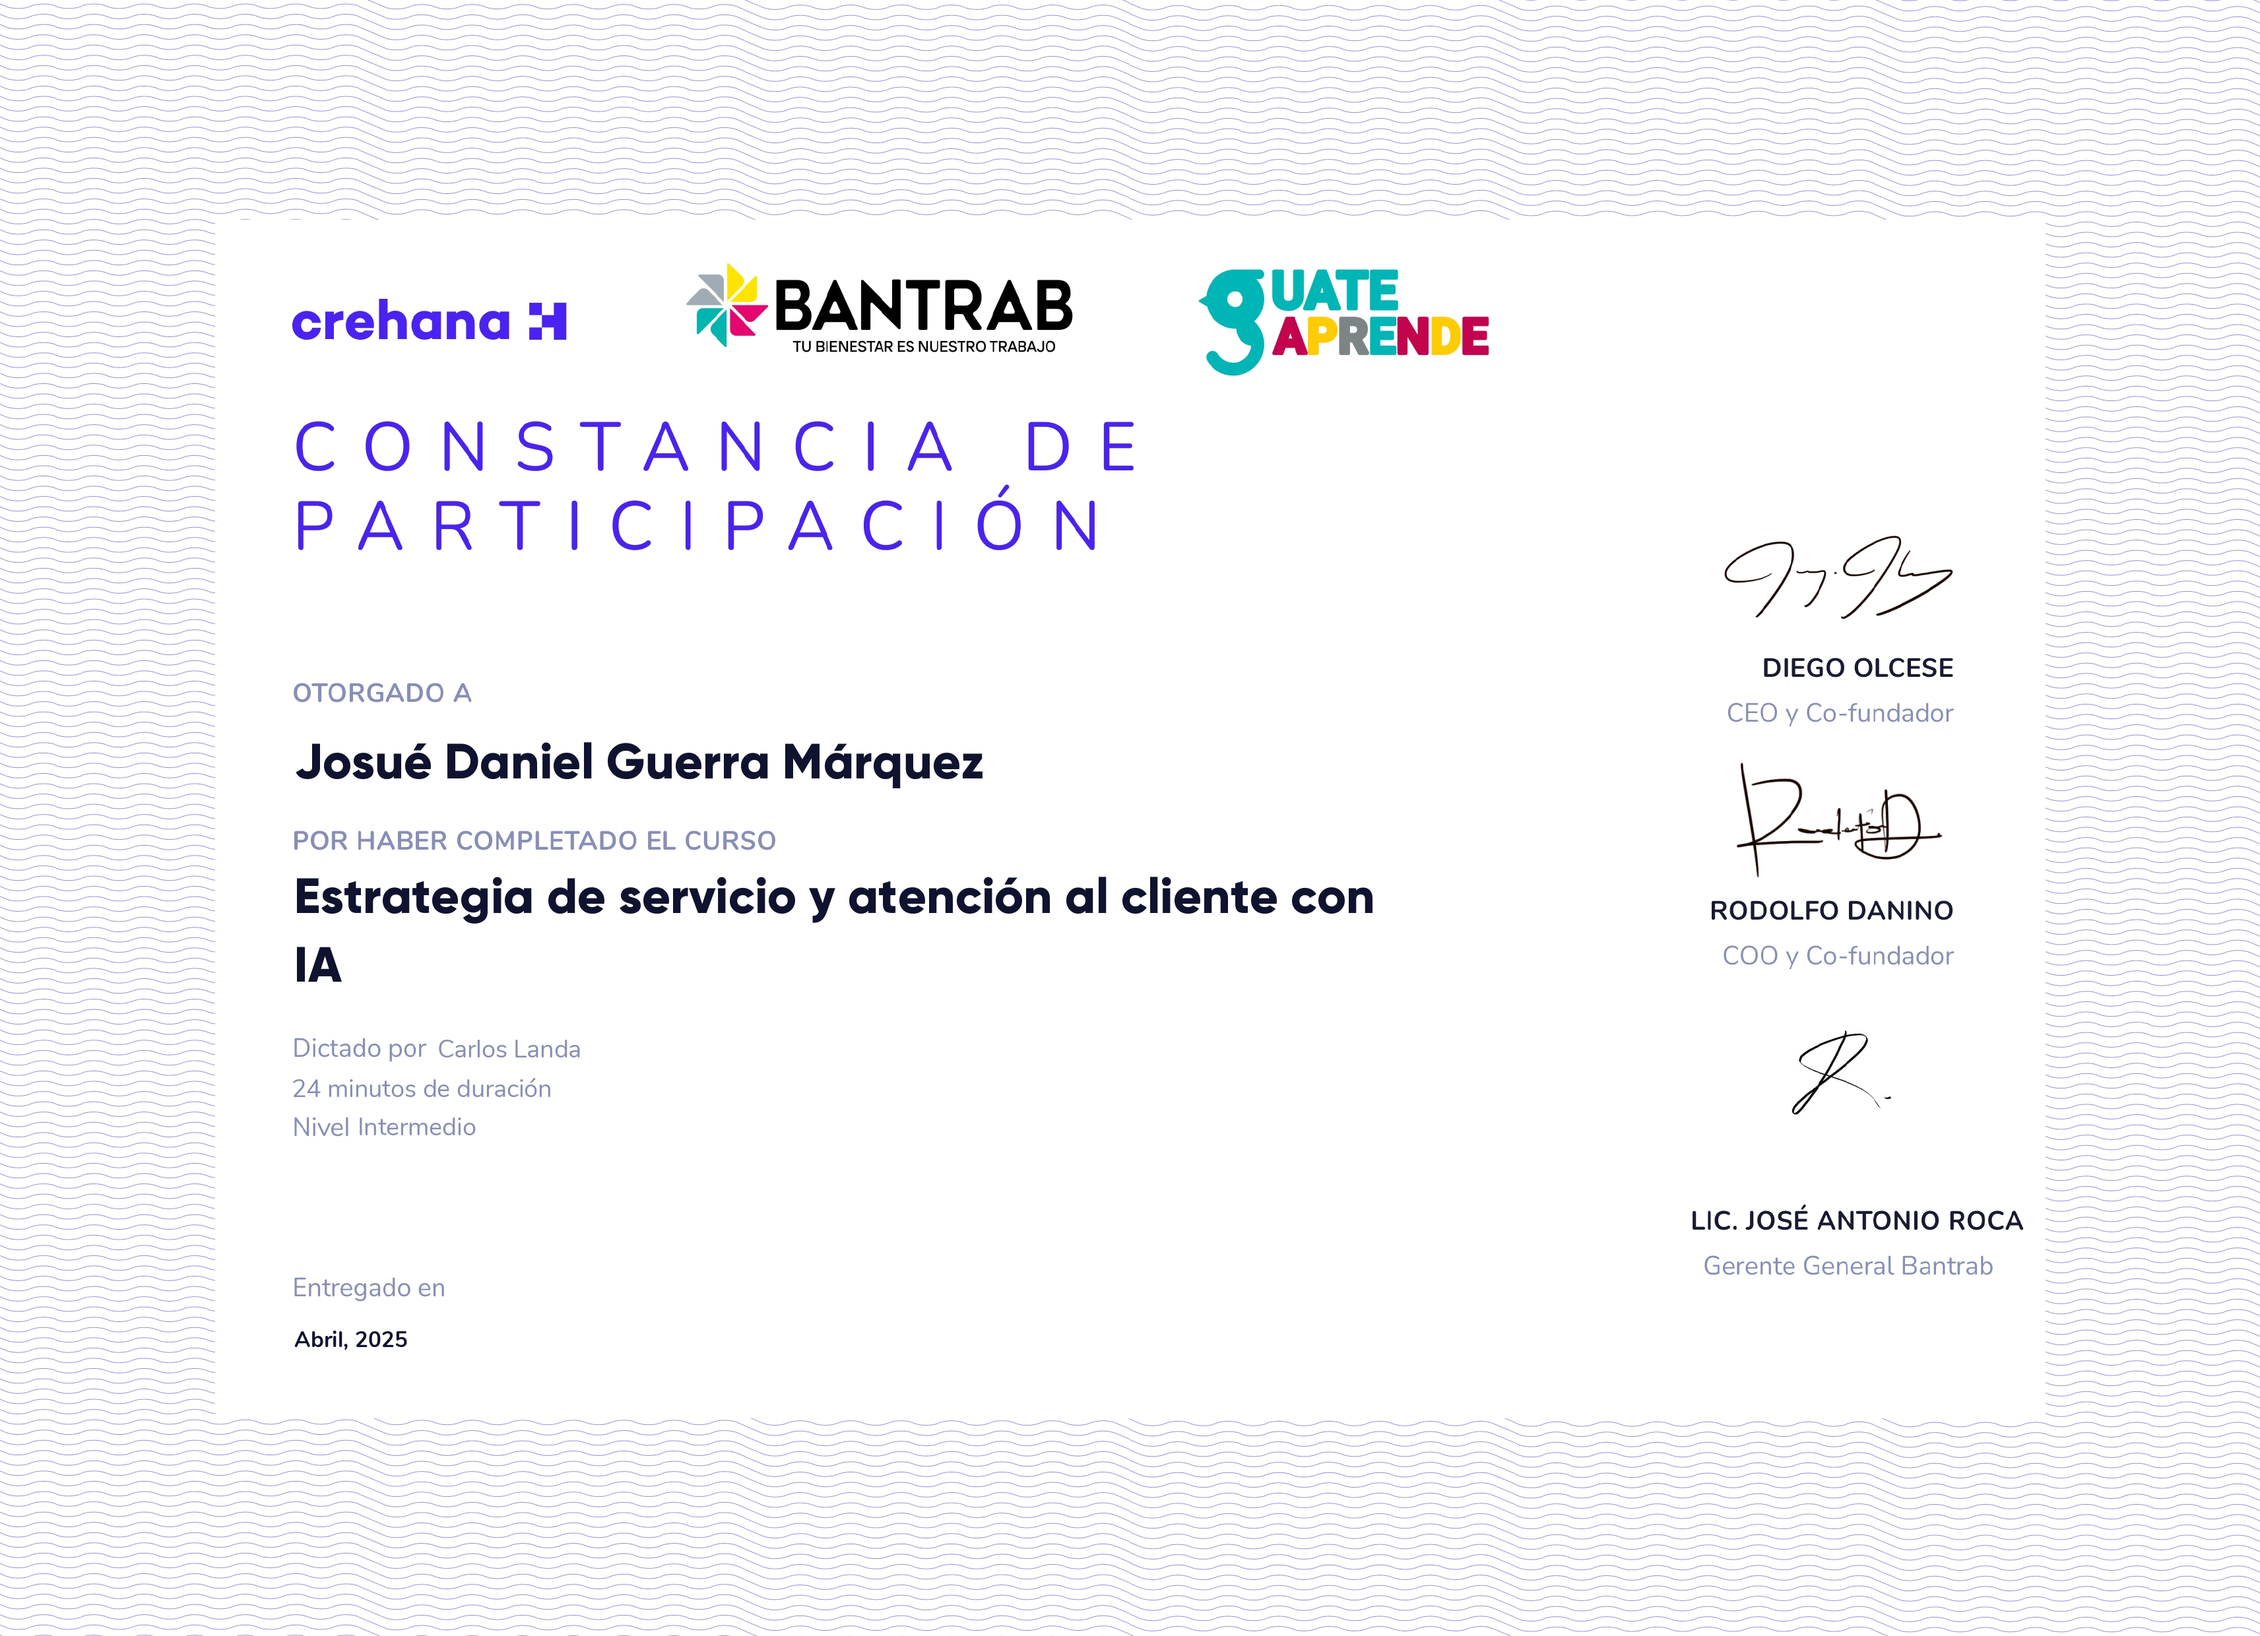
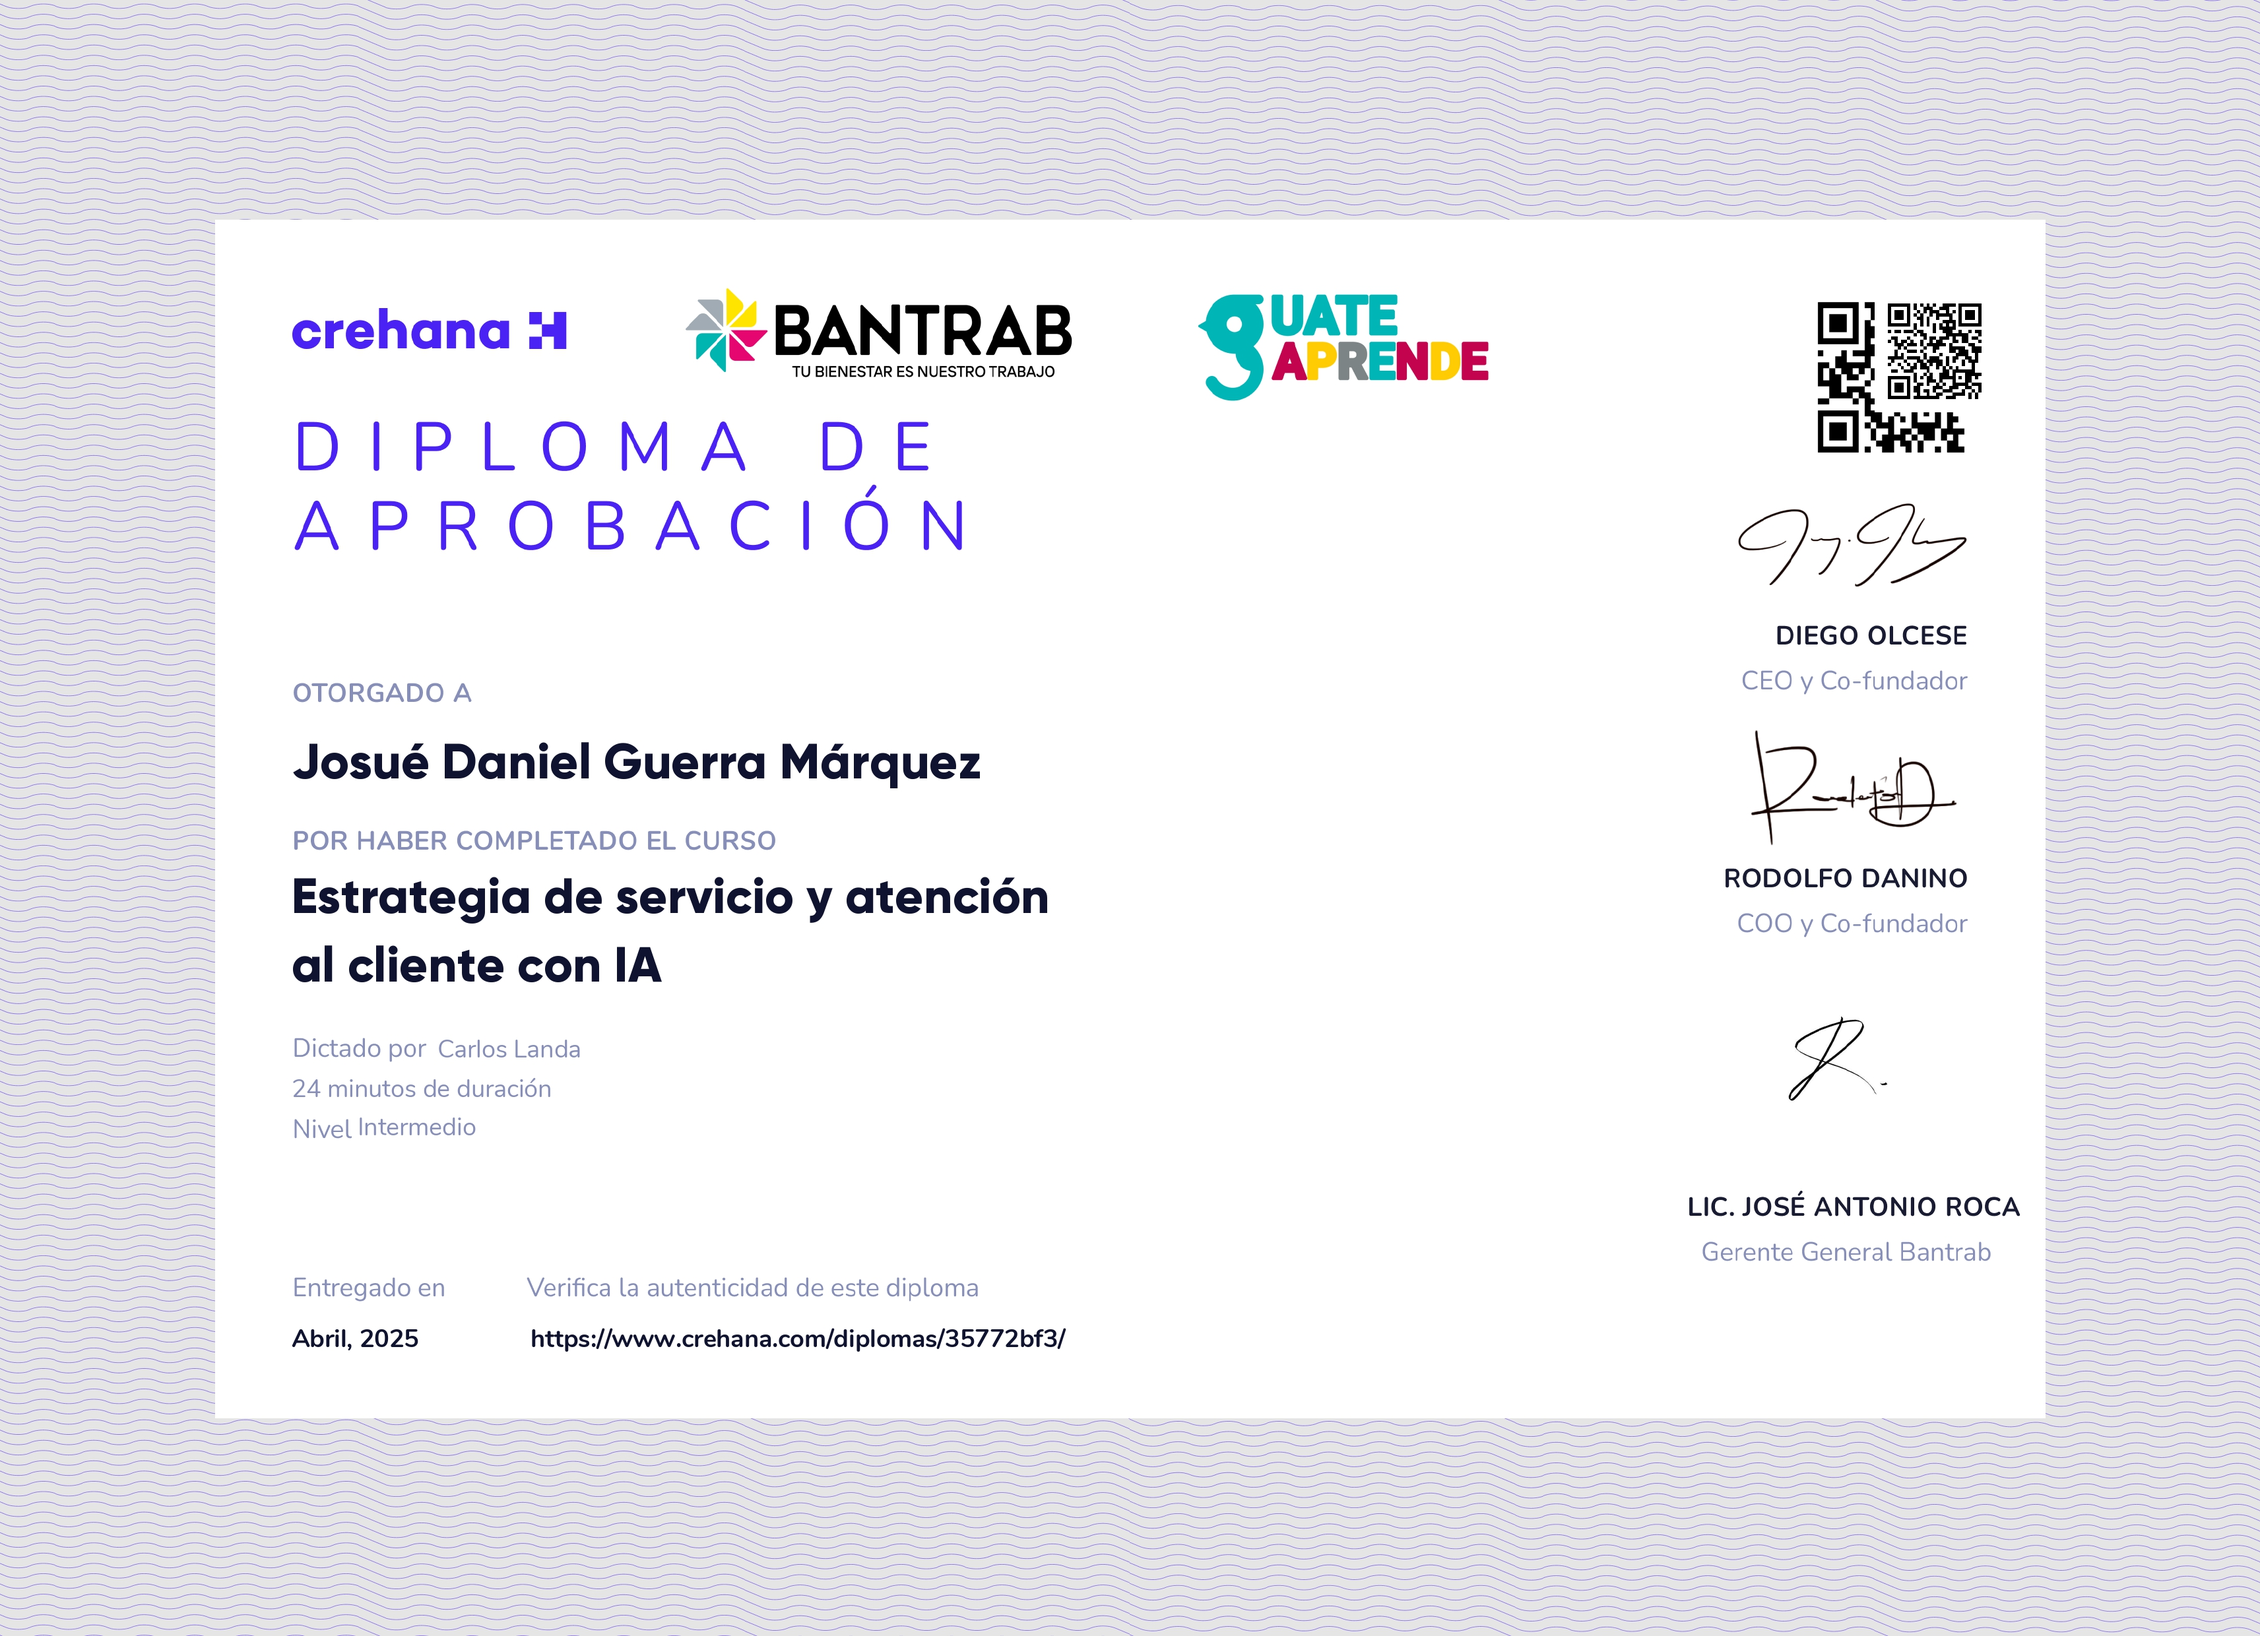
gdf

diff --git a/src/components/Formularios/ShowUsuario.js b/src/components/Formularios/ShowUsuario.js
@@ -10,6 +10,7 @@ import {
   faCode, 
   faCloudUploadAlt,
   faBrain,
+  faHeadset,
   faProjectDiagram,
   faTimes
 } from '@fortawesome/free-solid-svg-icons';
@@ -74,7 +75,8 @@ const ShowUsuario = () => {
     { id: 'data', name: 'Datos & IA', icon: faDatabase },
     { id: 'development', name: 'Desarrollo', icon: faCode },
     { id: 'cloud', name: 'Cloud', icon: faCloudUploadAlt },
-    { id: 'methodology', name: 'Metodologías', icon: faProjectDiagram }
+    { id: 'methodology', name: 'Metodologías', icon: faProjectDiagram },
+    { id: 'customer', name: 'Atención al Cliente', icon: faHeadset }
   ];
 
   // Certificaciones organizadas por categorías
@@ -269,6 +271,14 @@ const ShowUsuario = () => {
       category: "security",
       inProgress: true,
     },
+    //cliente
+    {
+      title: "Estrategia de servicio y atención al cliente con IA",
+      institution: "BANTRAB|GUATEAPRENDE",
+      year: "2025",
+      image: logo20,
+      category: "customer", // Asigna esta categoría a las certificaciones relacionadas
+    }
   ];
 
   // Filtrar certificaciones según la categoría seleccionada
